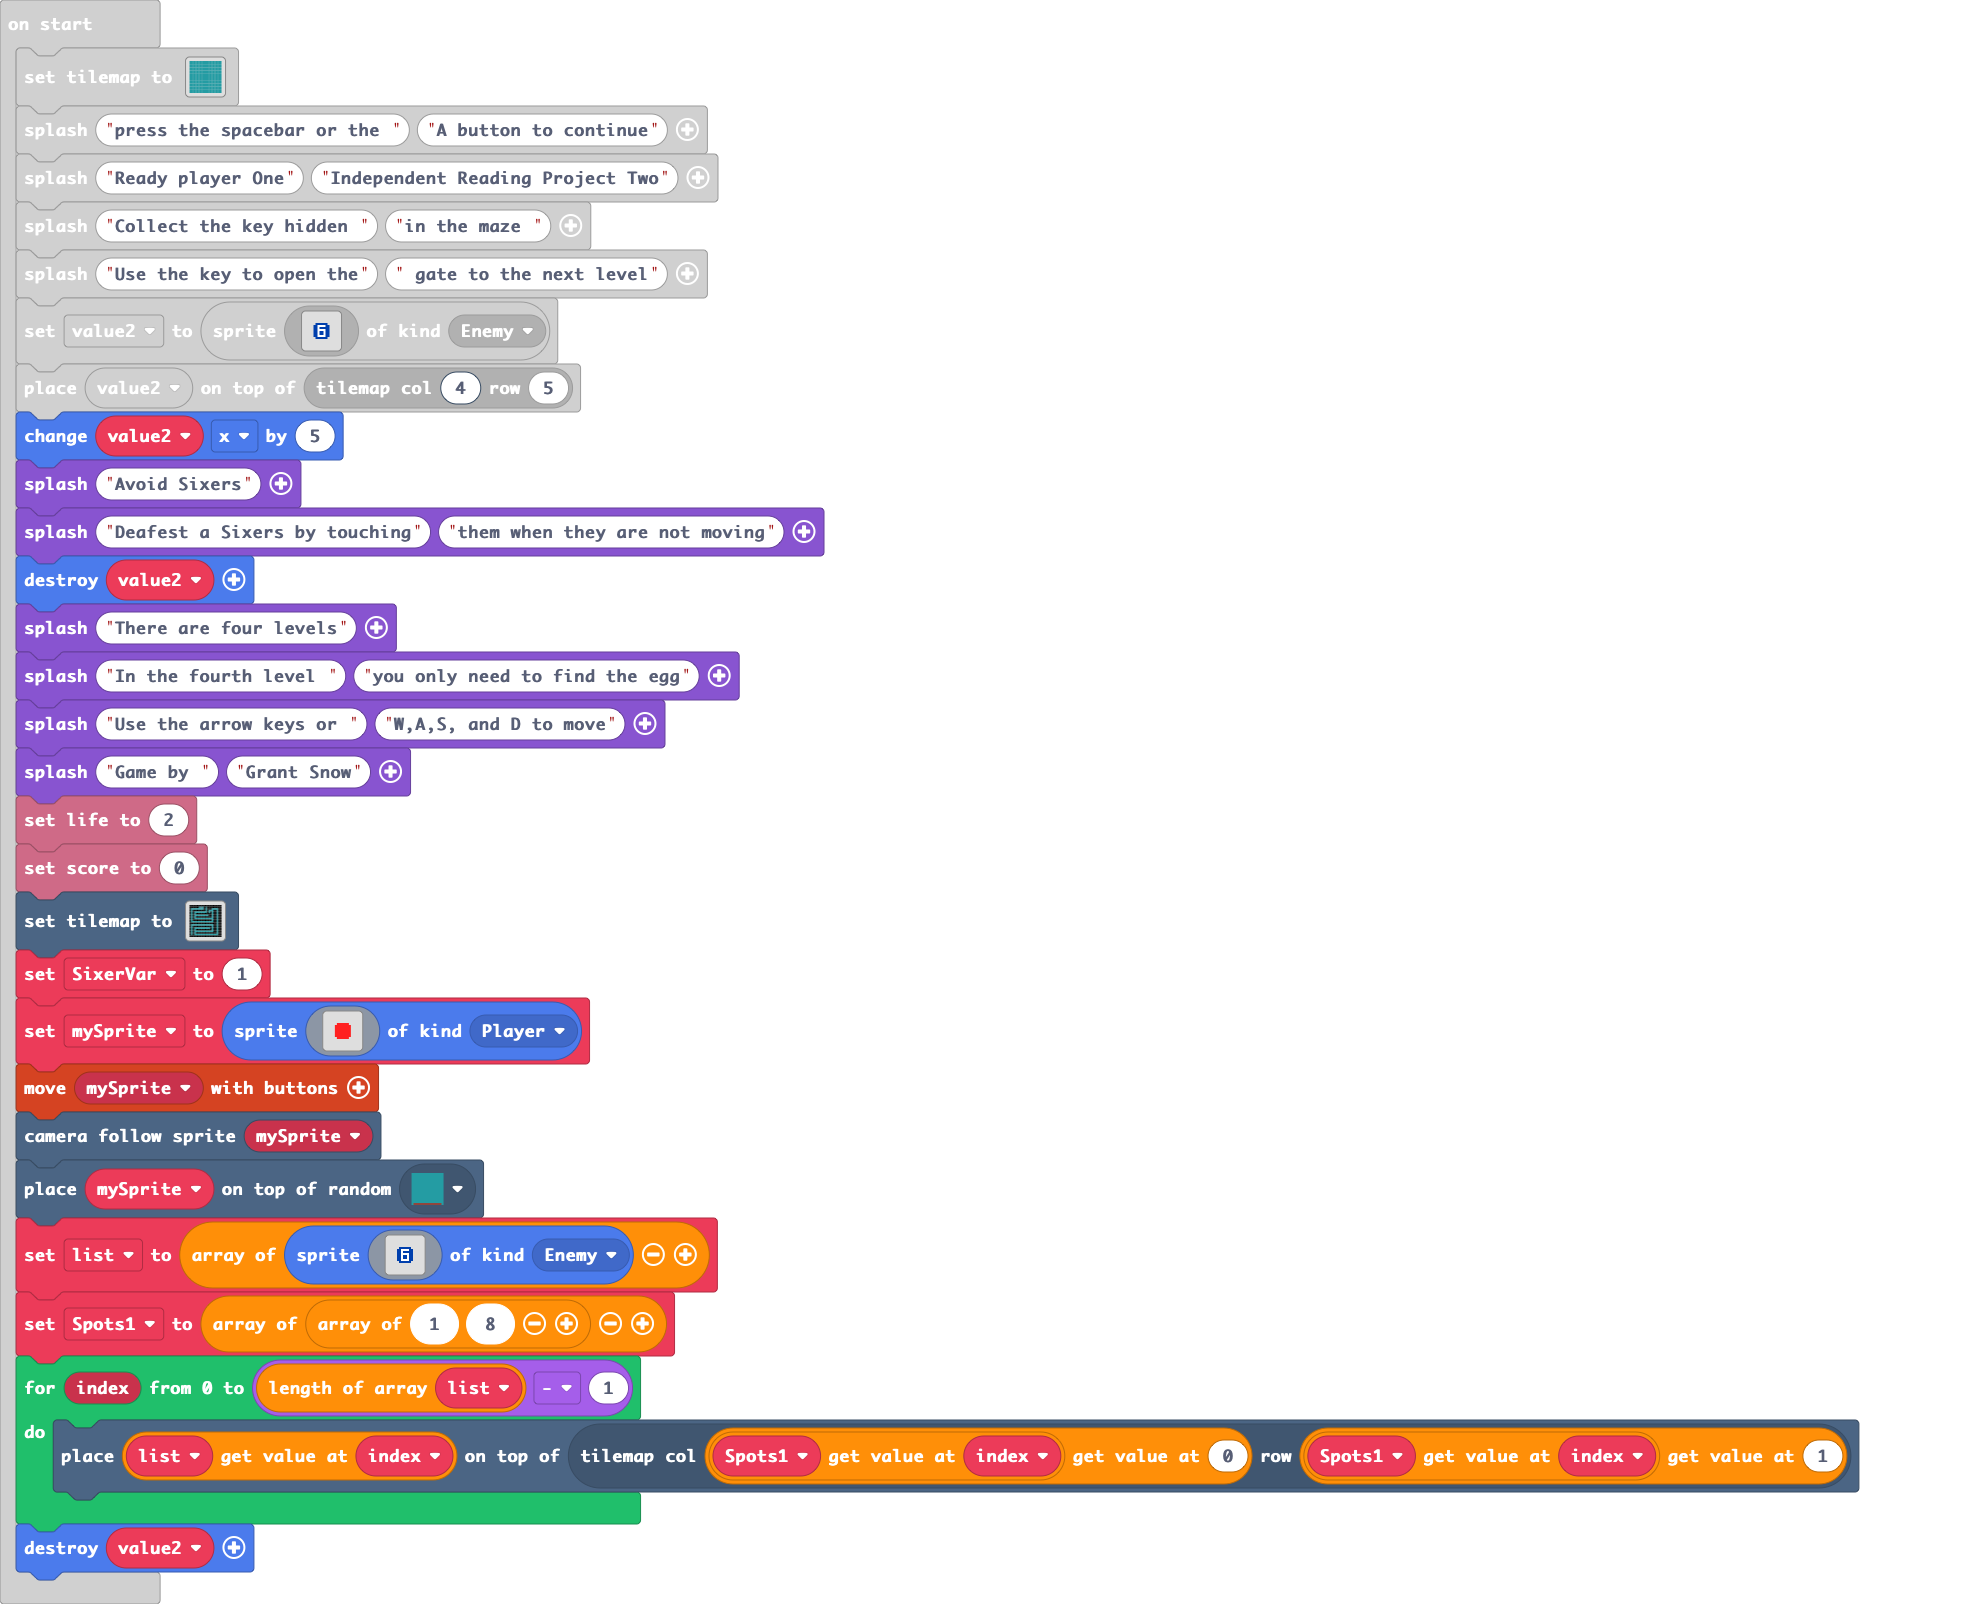
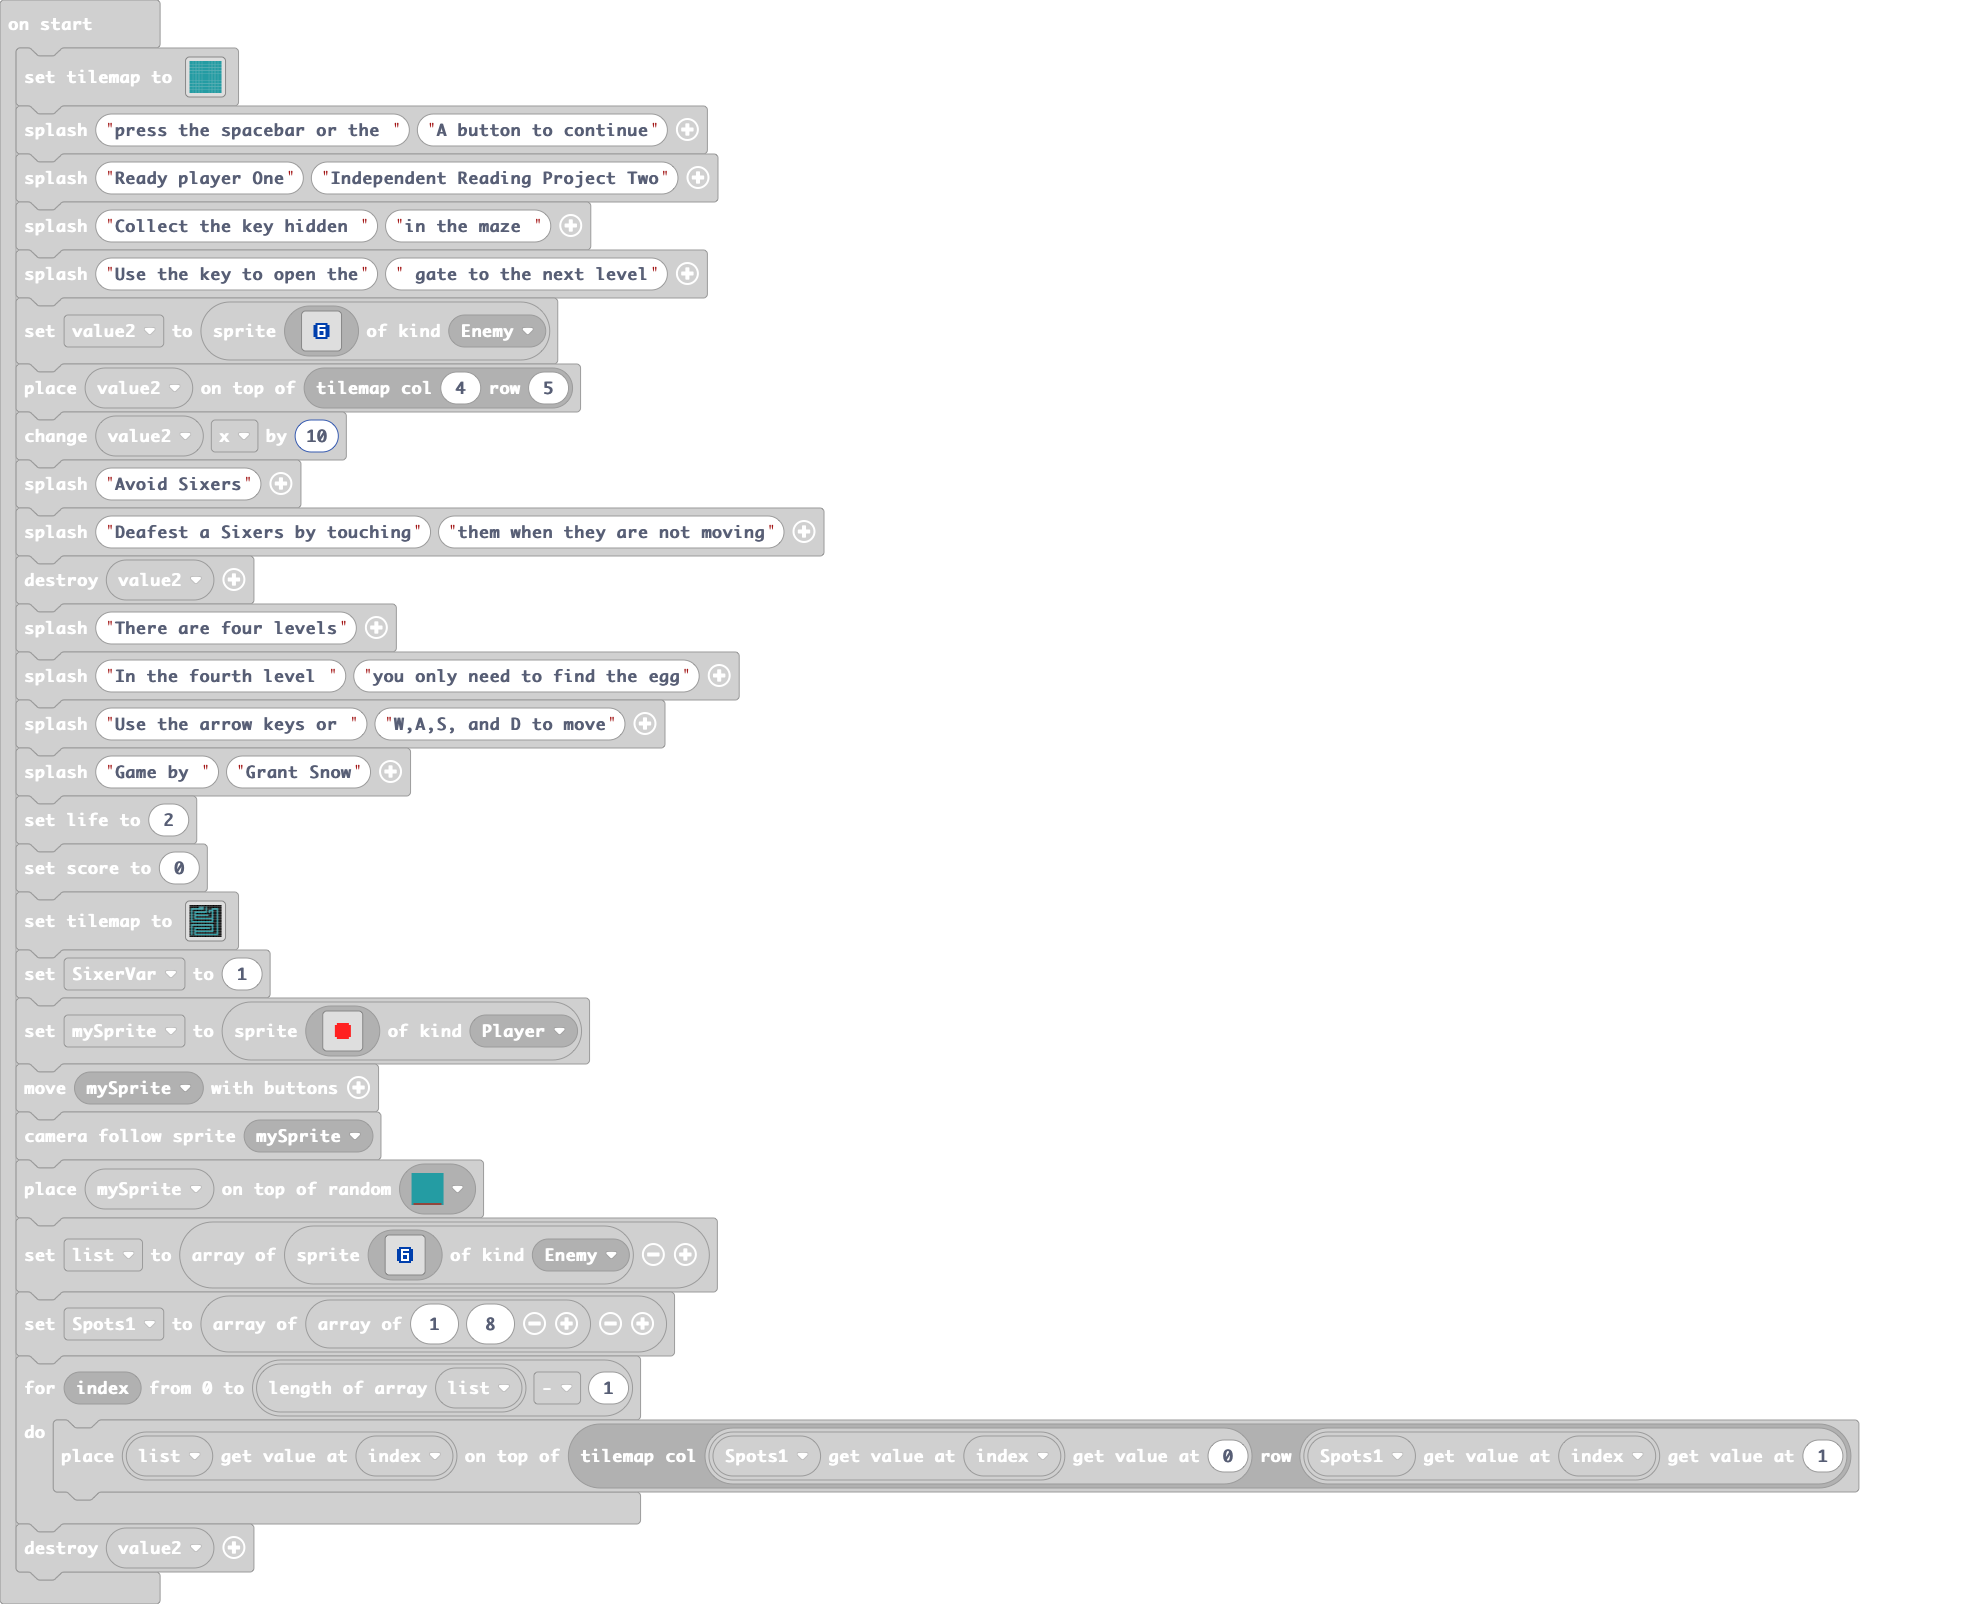
Update main.blocks, main.ts

Changed region(s): [[0.0, 0.2494, 0.9633, 0.9975]]

diff --git a/main.ts b/main.ts
@@ -267,7 +267,7 @@ let value2 = sprites.create(img`
     . . . . . . . . . . . . . . . . 
     `, SpriteKind.Enemy)
 tiles.placeOnTile(value2, tiles.getTileLocation(4, 5))
-value2.x += 5
+value2.x += 10
 game.splash("Avoid Sixers")
 game.splash("Deafest a Sixers by touching", "them when they are not moving")
 value2.destroy()
